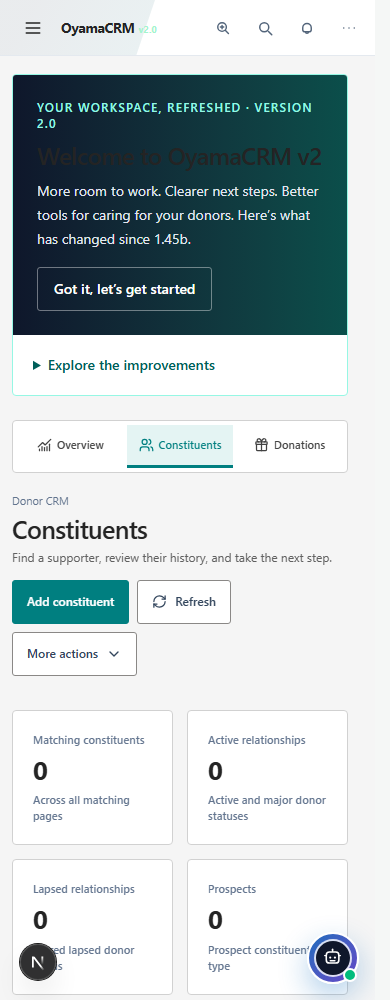
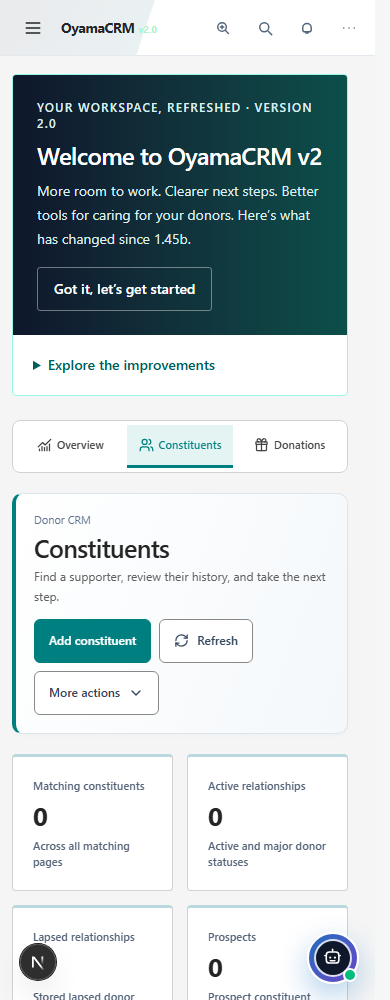
update

diff --git a/app/design-system.css b/app/design-system.css
@@ -157,7 +157,7 @@
   font-size: 13px;
   line-height: 1.4;
 }
-:is(.crm-fonts.crm-fonts,.event-studio-shell,[data-oyama-module]) :is(input,textarea):not(.event-public-document, .event-public-document *, [data-oyama-authored], [data-oyama-authored] *)::placeholder { color: #8b97a7; opacity: 1; }
+:is(.crm-fonts.crm-fonts,.event-studio-shell,[data-oyama-module]) :is(input,textarea):not(.event-public-document, .event-public-document *, [data-oyama-authored], [data-oyama-authored] *)::placeholder { color: #596579; opacity: 1; }
 :is(.crm-fonts.crm-fonts,.event-studio-shell,[data-oyama-module]) :is(input,select,textarea):focus-visible:not(.event-public-document, .event-public-document *, [data-oyama-authored], [data-oyama-authored] *) { outline: 2px solid var(--crm-accent); outline-offset: 2px; box-shadow: var(--oyama-focus); }
 :is(.crm-fonts.crm-fonts,.event-studio-shell,[data-oyama-module]) :is(input[type=checkbox],input[type=radio]):not(.event-public-document, .event-public-document *, [data-oyama-authored], [data-oyama-authored] *) { accent-color: var(--crm-accent); }
 :is(.crm-fonts.crm-fonts,.event-studio-shell,[data-oyama-module]) :is(button,a,summary):focus-visible:not(.event-public-document, .event-public-document *, [data-oyama-authored], [data-oyama-authored] *) { outline: 2px solid var(--crm-accent); outline-offset: 3px; }
@@ -194,3 +194,43 @@
   .crm-fonts.crm-fonts .crm-route-content:not(.event-public-document, .event-public-document *, [data-oyama-authored], [data-oyama-authored] *) { padding: 0; }
 }
 
+
+/* Explicit foreground/background pairs protect dark chrome from generic form and heading rules. */
+.crm-fonts.crm-fonts .crm-release-hero #release-v2-title { color: #fff; }
+.crm-fonts.crm-fonts .crm-release-hero p { color: #dceef0; }
+.crm-fonts.crm-fonts .crm-release-hero button { color: #fff; }
+.crm-fonts.crm-fonts .donor-tool-search input { background: #fff; color: #172b42; border: 1px solid #cbd5e1; border-radius: 5px; padding: 6px 8px; }
+.crm-fonts.crm-fonts .donor-tool-search input::placeholder { color: #526176; opacity: 1; }
+.crm-fonts.crm-fonts .donor-daily-workspace :is(.text-slate-400,.text-gray-400) { color: #596579; }
+.crm-fonts.crm-fonts .donor-browse-search input::placeholder { color: #596579; opacity: 1; }
+.crm-fonts.crm-fonts .donor-daily-workspace .crm-metric-card :is(.text-slate-500,.text-gray-500),
+.crm-fonts.crm-fonts .donor-daily-workspace .donor-scope-note { color: #526176; }
+
+/* Donor command pages: a clear header, quiet canvas and grouped actions. */
+.crm-fonts.crm-fonts .donor-daily-workspace .crm-page-header-surface {
+ border:1px solid #dce5eb; border-left:4px solid var(--crm-accent); border-radius:10px;
+ background:linear-gradient(110deg,#fff,#f4f8fb); padding:24px; box-shadow:0 2px 5px #10283f05;
+}
+.crm-fonts.crm-fonts .donor-daily-workspace .crm-page-header-surface .crm-page-actions { align-self:center; padding:6px; border-radius:8px; background:#ffffffc9; gap:8px; }
+.crm-fonts.crm-fonts .donor-daily-workspace .crm-filter-surface { background:#fff; box-shadow:0 2px 5px #10283f05; }
+.crm-fonts.crm-fonts .donor-daily-workspace .donor-workspace-nav { border-radius:8px; overflow:hidden; }
+.crm-fonts.crm-fonts .donor-daily-workspace .donor-workspace-nav a[aria-current=page] { background:var(--crm-accent-soft); }
+.crm-fonts.crm-fonts .donor-daily-workspace .crm-metric-card { border-top:3px solid #b9d9df; }
+.crm-fonts.crm-fonts .donor-daily-workspace .donor-button { border-radius:6px; }
+.crm-fonts.crm-fonts .donor-daily-workspace .donor-button:active:not(:disabled) { filter:brightness(.96); }
+.donor-spotlight-loading { min-height:190px; }
+.donor-spotlight-loading .donor-loading-indicator { color:#dceef0; }
+.donor-spotlight-loading-bars { display:flex; align-items:flex-end; gap:12px; height:140px; margin-top:16px; border-bottom:1px solid #ffffff30; }
+.donor-spotlight-loading-bars i { flex:1; border-radius:5px 5px 0 0; background:linear-gradient(0deg,#2dd4bf22,#5eead455); }
+.donor-spotlight-controls button:disabled { opacity:.6; cursor:wait; }
+@media(prefers-reduced-motion:no-preference) {
+ .donor-spotlight-loading-bars i { animation:donor-loading-breathe 1400ms ease-in-out infinite alternate; }
+ .donor-spotlight-loading-bars i:nth-child(even) { animation-delay:250ms; }
+ .donor-daily-workspace .donor-button { transition:background-color 140ms ease,border-color 140ms ease,box-shadow 140ms ease; }
+ .donor-daily-workspace .donor-button:hover:not(:disabled) { box-shadow:0 2px 6px #10283f12; }
+}
+@keyframes donor-loading-breathe { from { opacity:.35; } to { opacity:1; } }
+@media(max-width:639px) {
+ .crm-fonts.crm-fonts .donor-daily-workspace .crm-page-header-surface { padding:18px; }
+ .crm-fonts.crm-fonts .donor-daily-workspace .crm-page-header-surface .crm-page-actions { align-self:stretch; padding:0; background:transparent; }
+}

diff --git a/app/components/dashboard/DonorSpotlight.tsx b/app/components/dashboard/DonorSpotlight.tsx
@@ -1,0 +1,25 @@
+"use client";
+import { useState } from "react";
+import Link from "next/link";
+import { Area, AreaChart, ResponsiveContainer, Tooltip, XAxis } from "recharts";
+import type { DashboardData, DonorDashboardSummary } from "@/app/features/donor-dashboard/types";
+import { formatDashboardCurrency } from "@/app/features/donor-dashboard/calculations/dashboard-calculations";
+
+import { RefreshCw } from "lucide-react";
+
+const slides = ["Giving momentum", "Donor relationships", "Your next steps"];
+export default function DonorSpotlight({ data, summary, loading, unavailable, onRefresh }: { data: DashboardData | null; summary: DonorDashboardSummary | null; loading: boolean; unavailable: boolean; onRefresh: () => void }) {
+  const [slide, setSlide] = useState(0);
+  const points = data?.trendPoints ?? [];
+  const trendUnavailable = unavailable || !data || data.errors.some(error => error.startsWith("Giving trend"));
+  return <section className="donor-spotlight" aria-label="Donor workspace highlights" aria-roledescription="carousel">
+    <div className="donor-spotlight-header"><div><p className="donor-spotlight-eyebrow">Your donor workspace</p><h2>Every connection moves your mission forward.</h2><p>{summary?.period?.label ?? "Your current reporting period"} · Insights and next actions</p></div><div className="donor-spotlight-controls"><button type="button" disabled={loading} aria-label="Refresh highlights" onClick={onRefresh}><RefreshCw size={16} className={loading ? "motion-safe:animate-spin" : ""} /></button><button type="button" aria-label="Previous highlight" onClick={() => setSlide(value => (value + 2) % 3)}>←</button><span>{slide + 1} / 3</span><button type="button" aria-label="Next highlight" onClick={() => setSlide(value => (value + 1) % 3)}>→</button></div></div>
+    <div aria-live="polite" key={slide} className="donor-spotlight-slide" role="group" aria-roledescription="slide" aria-label={`${slide + 1} of 3: ${slides[slide]}`}>
+      <div><h3>{slides[slide]}</h3><p>{slide === 0 ? "See how completed giving is moving through the reporting period." : slide === 1 ? "Welcome new supporters and keep your existing relationships strong." : "Turn the next follow-up into a meaningful conversation."}</p><Link href={slide === 0 ? "/reports" : slide === 1 ? "/constituents" : "/tasks"}>{slide === 0 ? "Explore reports" : slide === 1 ? "Open constituent workspace" : "Review tasks"} →</Link></div>
+      <div className="donor-spotlight-visual">
+        {loading ? <div role="status" className="donor-spotlight-loading"><span className="donor-loading-indicator">Loading highlights…</span><div aria-hidden="true" className="donor-spotlight-loading-bars">{[45, 65, 40, 80, 60, 95, 75, 55].map((height, index) => <i key={index} style={{ height: `${height}%` }} />)}</div></div> : slide === 0 ? trendUnavailable ? <p>Giving trend unavailable.</p> : !points.length ? <p>No completed giving to chart in this period.</p> : <><div className="h-44" role="img" aria-label="Monthly completed giving; exact values available below"><ResponsiveContainer width="100%" height="100%"><AreaChart data={points}><XAxis dataKey="label" tick={{ fill: "#dceef0", fontSize: 11 }} axisLine={false} tickLine={false} /><Tooltip contentStyle={{ background: "#10283f", border: "1px solid #639798", color: "#fff" }} labelStyle={{ color: "#fff" }} itemStyle={{ color: "#99f6e4" }} formatter={value => formatDashboardCurrency(Number(value))} /><Area dataKey="amount" name="Completed giving" stroke="#5eead4" fill="#2dd4bf" fillOpacity={0.2} strokeWidth={3} isAnimationActive={false} /></AreaChart></ResponsiveContainer></div><details><summary>View chart values</summary><ul>{points.map(point => <li key={point.label}>{point.label}: {formatDashboardCurrency(point.amount)}</li>)}</ul></details></> : unavailable || !summary ? <p>Summary unavailable.</p> : <div className="donor-spotlight-stats">{(slide === 1 ? [["New donors this month", summary.newDonorsThisMonth], ["Active donors", summary.activeDonors]] : [["Pending tasks", summary.pendingTasks], ["Overdue tasks", summary.overdueTasks]]).map(([label, value]) => <div key={label}><span>{label}</span><strong>{Number(value).toLocaleString()}</strong></div>)}</div>}
+      </div>
+    </div>
+    <div className="donor-spotlight-tabs" role="group" aria-label="Choose highlight">{slides.map((label, index) => <button key={label} type="button" aria-pressed={slide === index} onClick={() => setSlide(index)}>{label}</button>)}</div>
+  </section>;
+}

diff --git a/app/donor-workspace.css b/app/donor-workspace.css
@@ -409,3 +409,27 @@
  .donor-animated-dashboard a:hover .crm-metric-card { transform: translateY(-3px); box-shadow: 0 8px 24px #10283f12; }
 }
 @keyframes donor-dashboard-reveal { from { opacity: 0; transform: translateY(10px); } to { opacity: 1; transform: translateY(0); } }
+
+/* Permanent dashboard spotlight, distinct from the first-use release announcement. */
+.crm-fonts.crm-fonts .donor-spotlight { padding:clamp(20px,3vw,36px); border-radius:12px; background:linear-gradient(115deg,#102237,#104f50); color:#dceef0; box-shadow:0 8px 24px #10283f14; }
+.crm-fonts.crm-fonts .donor-spotlight :is(h2,h3) { color:#fff; }
+.donor-spotlight-header { display:flex; justify-content:space-between; gap:24px; flex-wrap:wrap; }
+.donor-spotlight-header h2 { font-size:clamp(20px,2vw,28px); font-weight:600; margin:8px 0; }
+.donor-spotlight p { font-size:14px; line-height:1.7; }
+.donor-spotlight-eyebrow { color:#99f6e4; text-transform:uppercase; letter-spacing:.12em; font-size:11px !important; font-weight:600; }
+.donor-spotlight-controls { display:flex; align-items:center; gap:14px; }
+.donor-spotlight button { min-height:44px; border:1px solid #ffffff45; border-radius:6px; padding:8px 14px; color:#fff; }
+.donor-spotlight button:hover,.donor-spotlight button[aria-pressed=true] { background:#ffffff18; border-color:#5eead4; }
+.donor-spotlight :is(button,a,summary):focus-visible { outline:2px solid #99f6e4; outline-offset:4px; }
+.donor-spotlight-slide { display:grid; grid-template-columns:minmax(0,1fr) minmax(0,1.4fr); gap:32px; align-items:center; margin:24px 0; min-height:220px; }
+.donor-spotlight-slide h3 { font-size:20px; font-weight:600; margin-bottom:10px; }
+.donor-spotlight-slide a { display:inline-flex; padding:12px 0; color:#99f6e4; font-weight:600; }
+.donor-spotlight-visual { min-width:0; border:1px solid #ffffff20; background:#ffffff06; padding:18px; border-radius:8px; }
+.donor-spotlight-stats { display:grid; grid-template-columns:1fr 1fr; gap:24px; }
+.donor-spotlight-stats strong { display:block; font-size:36px; color:white; font-variant-numeric:tabular-nums; }
+.donor-spotlight-tabs { display:flex; gap:10px; flex-wrap:wrap; }
+.donor-spotlight details { font-size:12px; margin-top:12px; }
+.donor-spotlight summary { cursor:pointer; }
+@media(max-width:767px) { .donor-spotlight-slide { grid-template-columns:1fr; gap:20px; } }
+@media(prefers-reduced-motion:no-preference) { .donor-spotlight-slide { animation:donor-content-arrive 220ms ease-out; } }
+.crm-fonts.crm-fonts .donor-daily-workspace :is(.crm-card-surface,.crm-filter-surface,.oyama-table-shell) { border-radius:8px; border-color:#dce5eb; }

diff --git a/app/components/layout/ReleaseBanner.tsx b/app/components/layout/ReleaseBanner.tsx
@@ -28,7 +28,7 @@ export default function ReleaseBanner() {
   if (!key || readyKey !== key) return null;
   if (dismissed) return <div className="mb-4 flex justify-end"><button type="button" className="text-xs font-semibold text-[var(--crm-accent)] hover:underline" onClick={() => setDismissed(false)}>What’s new in OyamaCRM v2</button></div>;
   return <section aria-labelledby="release-v2-title" className="mb-6 overflow-hidden rounded-xl border border-teal-200 bg-white shadow-sm">
-    <div className="flex flex-wrap items-start justify-between gap-4 bg-gradient-to-r from-slate-900 to-teal-900 p-6 text-white">
+    <div className="crm-release-hero flex flex-wrap items-start justify-between gap-4 bg-gradient-to-r from-slate-900 to-teal-900 p-6 text-white">
       <div className="max-w-2xl"><p className="text-xs font-semibold uppercase tracking-widest text-teal-200">Your workspace, refreshed · Version 2.0</p><h2 id="release-v2-title" className="mt-2 text-2xl font-semibold">Welcome to OyamaCRM v2</h2><p className="mt-2 text-sm leading-6 text-slate-200">More room to work. Clearer next steps. Better tools for caring for your donors. Here’s what has changed since 1.45b.</p></div>
       <button type="button" className="min-h-11 rounded-md border border-white/40 px-4 text-sm font-semibold hover:bg-white/10 focus-visible:outline-2 focus-visible:outline-offset-4" onClick={() => { try { localStorage.setItem(key, "seen"); } catch { /* Dismiss for this session when storage is unavailable. */ } setDismissed(true); }}>Got it, let’s get started</button>
     </div>

diff --git a/app/components/dashboard/NaturalisticDonorDashboard.tsx b/app/components/dashboard/NaturalisticDonorDashboard.tsx
@@ -9,6 +9,7 @@ import { loadDonorDashboardData } from "@/app/features/donor-dashboard/services/
 import type { DashboardData, DonorDashboardSummary, RetentionData } from "@/app/features/donor-dashboard/types";
 import { formatDonationDate } from "@/app/components/donations/donation-utils";
 import DashboardReportFinder from "./DashboardReportFinder";
+import DonorSpotlight from "./DonorSpotlight";
 import NewDonorsWidget from "./NewDonorsWidget";
 import DashboardReminders from "./DashboardReminders";
 import DonorActionCenter from "./DonorActionCenter";
@@ -107,6 +108,7 @@ export default function NaturalisticDonorDashboard({
         <button type="button" onClick={refresh} disabled={busy} className="donor-button mt-3">Retry</button>
       </div> : null}
 
+      <DonorSpotlight onRefresh={refresh} data={data} summary={summary} loading={busy} unavailable={Boolean(loadError || requestError)} />
       <section aria-label="Performance summary">
         <div className="mb-3 flex flex-wrap items-center justify-between gap-2">
           <h2 className="text-lg font-semibold text-slate-900">Fundraising at a glance</h2>

diff --git a/app/components/ui/crm/CRMPageHeader.tsx b/app/components/ui/crm/CRMPageHeader.tsx
@@ -24,7 +24,7 @@ export default function CRMPageHeader({ breadcrumb, title, description, status, 
         {description ? <p className="mt-1 max-w-3xl text-sm leading-6 text-slate-600">{description}</p> : null}
       </div>
       {(primaryAction || secondaryActions) ? (
-        <div className="flex shrink-0 flex-wrap items-center gap-2">
+        <div className="crm-page-actions flex shrink-0 flex-wrap items-center gap-2">
           {primaryAction}
           {secondaryActions}
         </div>
